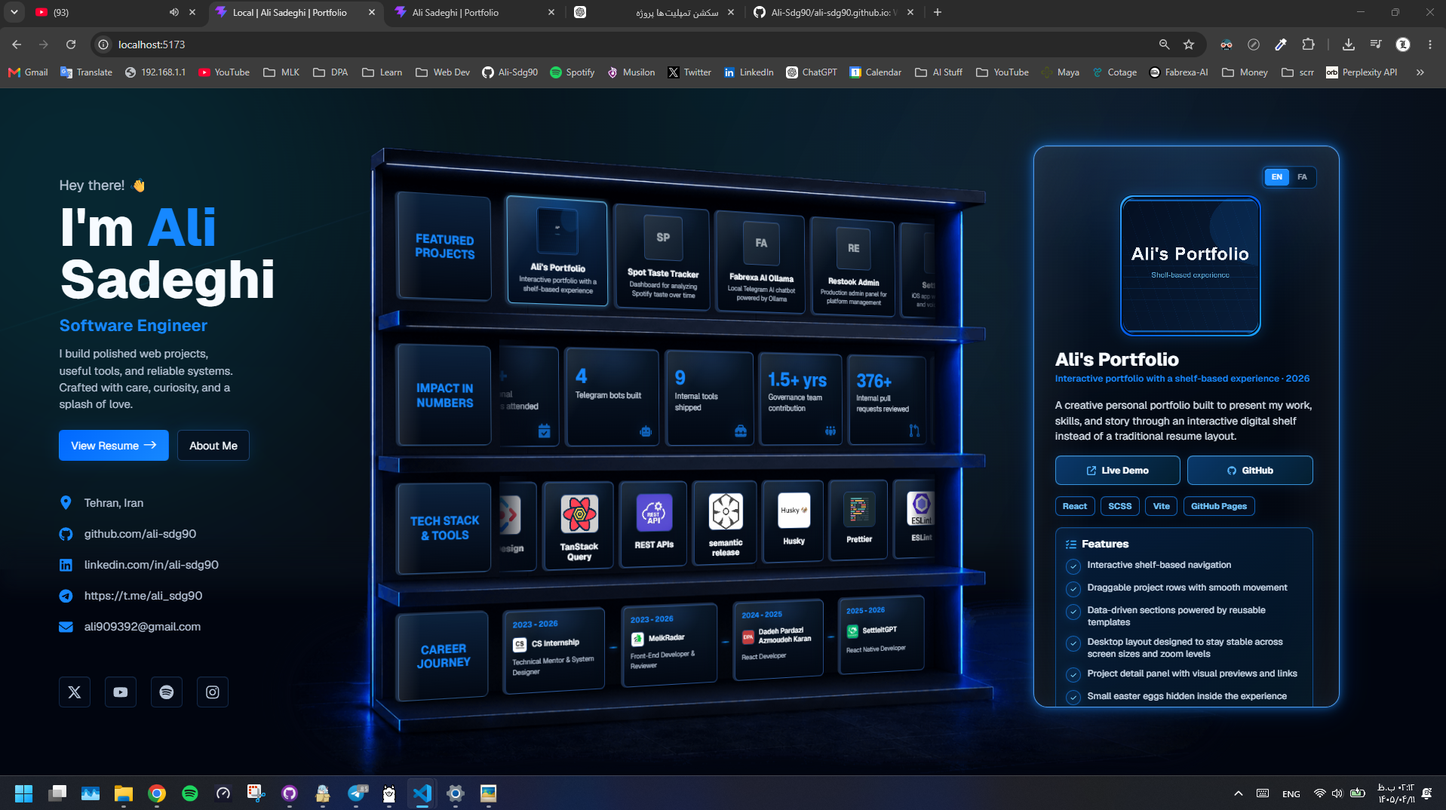
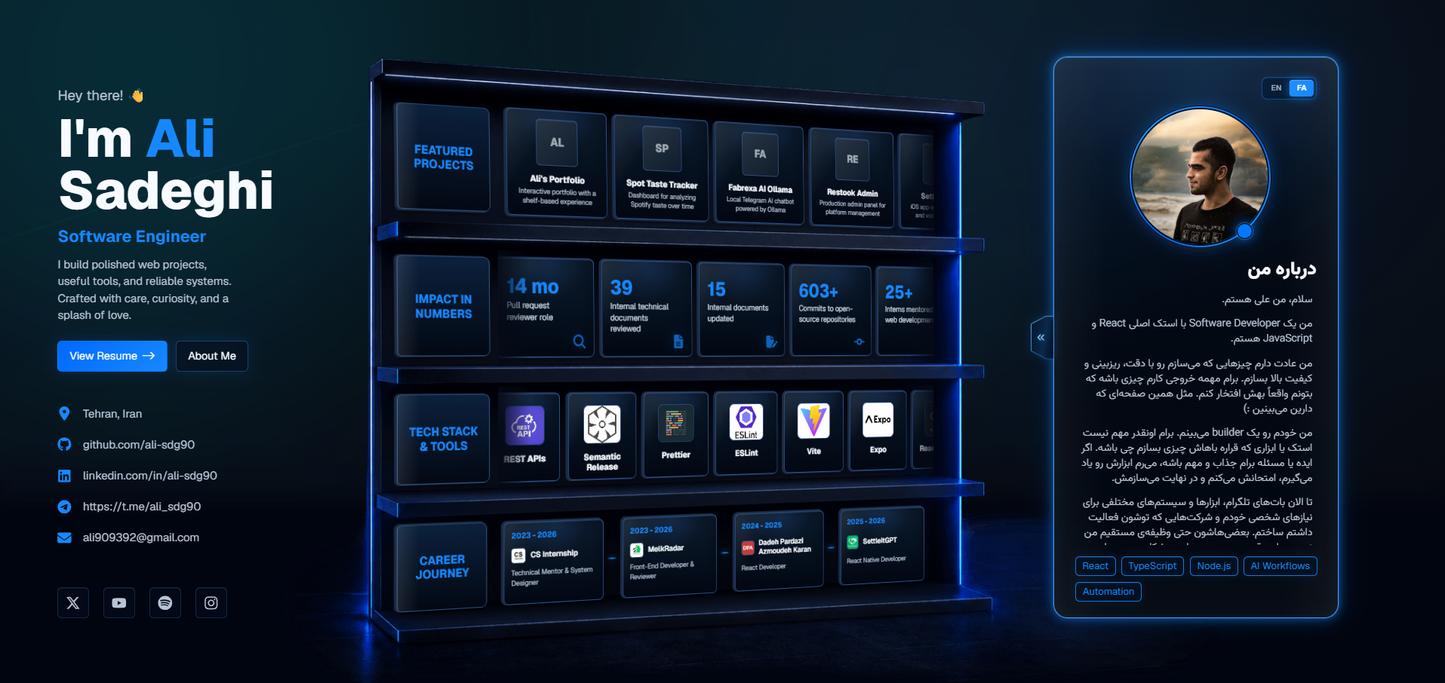
fix: add 6 more history card text, now we are at 16th card, rename and re-order history images

diff --git a/src/data/howItWasBuilt/howItWasBuiltData.js b/src/data/howItWasBuilt/howItWasBuiltData.js
@@ -24,6 +24,8 @@ import historyImage12Large from "../../assets/images/history-class/large-images/
 import historyImage12Small from "../../assets/images/history-class/small-images/img12.jpg";
 import historyImage13Large from "../../assets/images/history-class/large-images/img13.png";
 import historyImage13Small from "../../assets/images/history-class/small-images/img13.jpg";
+import historyImage14Large from "../../assets/images/history-class/large-images/img14.png";
+import historyImage14Small from "../../assets/images/history-class/small-images/img14.jpg";
 import historyImage15Large from "../../assets/images/history-class/large-images/img15.png";
 import historyImage15Small from "../../assets/images/history-class/small-images/img15.jpg";
 import historyImage16Large from "../../assets/images/history-class/large-images/img16.png";
@@ -34,10 +36,8 @@ import historyImage18Large from "../../assets/images/history-class/large-images/
 import historyImage18Small from "../../assets/images/history-class/small-images/img18.jpg";
 import historyImage19Large from "../../assets/images/history-class/large-images/img19.png";
 import historyImage19Small from "../../assets/images/history-class/small-images/img19.jpg";
-import historyImage201Large from "../../assets/images/history-class/large-images/img20.1.png";
-import historyImage201Small from "../../assets/images/history-class/small-images/img20.1.jpg";
-import historyImage202Large from "../../assets/images/history-class/large-images/img20.2.png";
-import historyImage202Small from "../../assets/images/history-class/small-images/img20.2.jpg";
+import historyImage20Large from "../../assets/images/history-class/large-images/img20.png";
+import historyImage20Small from "../../assets/images/history-class/small-images/img20.jpg";
 import historyImage21Large from "../../assets/images/history-class/large-images/img21.png";
 import historyImage21Small from "../../assets/images/history-class/small-images/img21.jpg";
 import historyImage22Large from "../../assets/images/history-class/large-images/img22.png";
@@ -102,7 +102,7 @@ I drew the first version of the idea very simply in Paint, and this became the f
 
 In the end, we got to this image. It felt really special, creative, and exciting to me.
 
-A three-dimensional shelf with a nice perspective in the middle of the page, simple text and contact information on the right, and me in stop motion on the left.
+A three-dimensional shelf with a nice perspective in the middle of the page, simple text and contact information on the left, and me in stop motion on the right.
 
 It had a small cyberpunk neon-light feeling. Not too loud, not too invisible.
 
@@ -116,7 +116,7 @@ So now that I had the design and the vision, I could start the project.`,
 
 در نهایت به این عکس رسیدیم. چیزی بود که به نظرم خیلی خاص و خلاقانه و جذاب بود.
 
-شلف سهبعدی با پرسپکتیو خوشگل وسط صفحه، نوشته معمولی و اطلاعات تماس سمت راست و خودم بهصورت استاپموشن سمت چپ.
+شلف سهبعدی با پرسپکتیو خوشگل وسط صفحه، نوشته معمولی و اطلاعات تماس سمت چپ و خودم بهصورت استاپموشن سمت راست.
 
 یه حالت سایبرپانکی نئونلایتی ریز داشت. نه خیلی تو چشم، نه خیلی نامرئی.
 
@@ -198,7 +198,7 @@ Now it was time to arrange them.`,
             id: "history-05",
             translations: {
                 en: {
-                    title: "The First Fight With Perspective",
+                    title: "The Fight With Perspective",
                     description: `Placing the cards according to the perspective of the shelf image was a really complicated process...
 
 It was all about playing with the perspective origin, the perspective value, and the X, Y, and Z rotation angles of the cards...
@@ -212,7 +212,7 @@ At this stage, I only used the Things I’ve Built row as my working reference a
 So later, I could go back and find the correct values for each shelf.`,
                 },
                 fa: {
-                    title: "اولین نبرد با پرسپکتیو",
+                    title: "نبرد با پرسپکتیو",
                     description: `قرار دادن کارتها طبق پرسپکتیو عکس شلف، پروسه خیلی پیچیدهای بود...
 
 همش بازی با اوریجین پرسپکتیو، مقدار پرسپکتیو، زاویههای X و Y و Z چرخش کارتها...
@@ -237,7 +237,7 @@ So later, I could go back and find the correct values for each shelf.`,
             id: "history-06",
             translations: {
                 en: {
-                    title: "Taming the Angles and Motion",
+                    title: "Victory Over Perspective",
                     description: `With a lot of precision, I managed to get the card angles right!
 
 I kept telling myself that if I could not get the angles right, it would be the first thing people would notice unconsciously at first glance, and it could make all the work I had done, and all the work ahead of me, feel worthless. If it looked off, the user would feel that something here is wrong. It does not feel natural.
@@ -249,7 +249,7 @@ Then I added the infinite card behavior, the acceleration and natural dragging b
 The movement speed of the cards and the amount of friction when they were thrown felt natural and fun to me.`,
                 },
                 fa: {
-                    title: "رام کردن زاویهها و حرکت",
+                    title: "پیروزی بر پرسپکتیو",
                     description: `با ظرافت خیلی زیاد تونستم زاویهی کارتها رو درست دربیارم!
 
 با خودم میگفتم اگه نتونم زاویهها رو درست دربیارم، اولین چیزی هست که بهصورت ناخودآگاه توی دید اول به چشم میاد و میتونه کل زحمات الان و آیندهم رو بیارزش کنه. اگه مشکلدار باشه، کاربر میگه اینجا یه چیزی اشتباهه. طبیعی نیست.
@@ -365,14 +365,28 @@ Oh, and yeah, I also filled the left side of the page.`,
             id: "history-10",
             translations: {
                 en: {
-                    title: "Placeholder",
-                    description:
-                        "Lorem ipsum dolor sit amet, consectetur adipiscing elit.",
+                    title: "Changing Direction",
+                    description: `For testing, I took a photo of myself with the outfit and lighting angle I had in the design, and placed it inside the project.
+
+It was really disappointing for me to see that having my own photo on the page did not work well.
+
+The specific lighting angle, the super high quality, and the natural feeling of the photo all needed to be perfect. If even a small part was off, it would not look natural, and it would subconsciously push away the comfort of looking at the page. I realized I was in a challenge where, if I continued this path with this design, the chance of the project failing would become really high.
+
+There was another problem too. Having my photo there grabbed too much attention. The shelf was supposed to be the center of attention on the page. Having two parts of the project constantly fighting for attention is not really good for the user experience.
+
+So this was a failed but cool test, and saw that I needed to change the design of the project.`,
                 },
                 fa: {
-                    title: "متن جایگزین",
-                    description:
-                        "لورم ایپسوم متن ساختگی با تولید سادگی نامفهوم از صنعت چاپ است.",
+                    title: "تغییر مسیر",
+                    description: `برای تست، یه عکس از خودم با لباس و زاویهی نوریای که تو دیزاین داشتم گرفتم و تو پروژه گذاشتم.
+
+برام خیلی ناراحتکننده بود که دیدم بودن عکس خودم تو صفحه خوب جواب نمیده.
+
+زاویهی نوری خاص عکس، کیفیت فوقبالا و طبیعی بودن عکس باید همشون پرفکت باشن. اگه یکم مشکلدار باشه، طبیعی به چشم نمیاد و ناخودآگاه راحت بودن با دیدن صفحه رو پس میزنه. دیدم تو چالشی افتادم که اگه بخوام این مسیر رو با این دیزاین ادامه بدم، احتمال شکست پروژه خیلی بالا میره.
+
+بعد یه مشکل دیگه هم بود. بودن عکس من خیلی توجه جلب میکرد. قرار بود شلف مرکز توجه صفحه باشه. دوتیکهی پروژه که مدام بخوان توجه رو جلب کنن، خیلی برای تجربهی کاربری خوب نیست.
+
+پس این یه تست ناموفق و باحال بود و دیدم نیاز بود تو دیزاین پروژه دست ببرم.`,
                 },
             },
             image: {
@@ -386,14 +400,20 @@ Oh, and yeah, I also filled the left side of the page.`,
             id: "history-11",
             translations: {
                 en: {
-                    title: "Placeholder",
-                    description:
-                        "Lorem ipsum dolor sit amet, consectetur adipiscing elit.",
+                    title: "The Second Design",
+                    description: `Instead of the stop-motion Ali on the right side of the page, I added an About Me section with my photo at the top, where the user could scroll and read the full text.
+
+To me, it felt like a clean and simple idea that did not grab too much attention and allowed the shelf to shine on the page. It was not so simple that it felt out of place either. In my eyes, it sat well on the page.
+
+I created the new design image with ChatGPT and started building it.`,
                 },
                 fa: {
-                    title: "متن جایگزین",
-                    description:
-                        "لورم ایپسوم متن ساختگی با تولید سادگی نامفهوم از صنعت چاپ است.",
+                    title: "دیزاین دوم پروژه",
+                    description: `به جای علی استاپموشنی سمت راست صفحه، یه سکشن About Me قرار دادم که بالاش عکسم باشه و توش کاربر بتونه اسکرول کنه و کل متن رو بخونه.
+
+به چشمم ایدهی تمیز و سادهای میومد که خیلی هم جلب توجه نمیکرد و اجازه میداد شلف بتونه تو صفحه بدرخشه. اونقدر هم ساده نبود که جاش تو صفحه نباشه. به دیدم خوب تو صفحه نشسته بود.
+
+عکس جدید دیزاین رو با چتجیپیتی ساختم و شروع به ساختنش کردم.`,
                 },
             },
             image: {
@@ -407,14 +427,24 @@ Oh, and yeah, I also filled the left side of the page.`,
             id: "history-12",
             translations: {
                 en: {
-                    title: "Placeholder",
-                    description:
-                        "Lorem ipsum dolor sit amet, consectetur adipiscing elit.",
+                    title: "Strange New Section",
+                    description: `I built the new section. I named it About Section.
+
+The fact that the text inside it was tilted looked a bit strange to me. It felt strange because this section was meant for reading, and this perspective felt a little tiring and uncomfortable for the eyes.
+
+I gave myself some time to spend more time with it, maybe I was just being sensitive about it in the moment.
+
+I improved the Career cards based on the design. They were no longer just an image with text under it. They became closer to the new design, better, more professional, and prettier.`,
                 },
                 fa: {
-                    title: "متن جایگزین",
-                    description:
-                        "لورم ایپسوم متن ساختگی با تولید سادگی نامفهوم از صنعت چاپ است.",
+                    title: "سکشن جدید عجیب",
+                    description: `سکشن جدید رو ساختم. اسمش رو About Section گذاشتم.
+
+یکم اینکه متن توش کج بود، به چشمم عجیب میومد. این عجیبی به خاطر این بود که این سکشن برای خوندن بود و این پرسپکتیو یکم خستهکننده و اذیتکننده برای چشم بود.
+
+یکم به خودم وقت دادم بیشتر باهاش وقت بگذرونم، شاید فقط تو لحظه نسبت بهش حساس بودم.
+
+کارتهای Career رو طبق دیزاین بهتر کردم. دیگه فقط یه عکس و متن زیرش نبود. شبیه دیزاین جدید، بهتر و حرفهایتر و خوشگلتر شد.`,
                 },
             },
             image: {
@@ -428,14 +458,28 @@ Oh, and yeah, I also filled the left side of the page.`,
             id: "history-13",
             translations: {
                 en: {
-                    title: "Placeholder",
-                    description:
-                        "Lorem ipsum dolor sit amet, consectetur adipiscing elit.",
+                    title: "Choosing the Best Path",
+                    description: `I thought a lot about how to show the user more details about the shelf cards.
+
+One of the early ideas of the project, which felt really cool and scary to me, was that when the user clicked on a shelf card, a modal would open with an animation and show the card information inside it. The modal could be resized on the page, so the user could move modals around or have multiple ones open at the same time with different sizes.
+
+It was a very big idea. I thought maybe it would become way bigger than my portfolio, or make interacting with the page too complicated.
+
+Then a simpler idea came to my mind. I could use this new About Me section, and when the user clicked on a card, it would show that card’s information inside this section. When no card was selected, it would show About Me.
+
+It felt like a creative and good idea to me. With ChatGPT, I made the rough design and layout of the parts inside it, and I had a good plan to continue.`,
                 },
                 fa: {
-                    title: "متن جایگزین",
-                    description:
-                        "لورم ایپسوم متن ساختگی با تولید سادگی نامفهوم از صنعت چاپ است.",
+                    title: "انتخاب بهترین راه",
+                    description: `سر اینکه چطور توضیحات بیشتر کارتهای شلفها رو به کاربر نشون بدم، خیلی فکر کردم.
+
+یکی از ایدههای اولیه پروژه که به نظرم خیلی باحال و ترسناک میومد این بود که وقتی روی کارتهای شلف کلیک میشه، یه مودال با انیمیشن باز بشه و توش اطلاعات کارت نشون داده بشه. این مودال تو صفحه قابلیت تغییر اندازه داشته باشه، جوری که کاربر بتونه مودالها رو تو صفحه تکون بده یا چند تا در لحظه باز داشته باشه، با سایزهای مختلف.
+
+ایده خیلی بزرگی بود. فکر کردم شاید خیلی فراتر از پورتفولیوم میشه یا زیادی کار با صفحه رو پیچیده میکنه.
+
+بعد یه ایده سادهتر به ذهنم رسید. میتونم از این سکشن About Me جدید استفاده کنم و وقتی کاربر روی کارتی کلیک کرد، اون اطلاعات کارت رو تو این سکشن نشون بده. وقتی هم کارتی سلکت نشده، About Me رو نشون بده.
+
+به نظرم ایده خلاقانه و خوبی میومد. با چتجیپیتی دیزاین تقریبی و قرارگیری قسمتهای داخلش رو ساختم و پلن خوبی برای ادامه دادن داشتم.`,
                 },
             },
             image: {
@@ -446,17 +490,58 @@ Oh, and yeah, I also filled the left side of the page.`,
             accent: "#48d7c7",
         },
         {
+            id: "history-14",
+            translations: {
+                en: {
+                    title: "Implementing the Dynamic Modal",
+                    description: `I implemented the dynamic model of the About Section.
+
+It looked pretty and cool to me. The only thing was that the content inside it felt a little too small and tiny.
+
+I wanted each card to also have a description and story section, where I could write its story in Persian, and the user could easily change the card language and read the text in Ali-style Persian. So I added a language switch to the top of the card.
+
+I also made the whole section straight and removed the tilted perspective from it.`,
+                },
+                fa: {
+                    title: "پیادهسازی مدال داینامیک",
+                    description: `مدل داینامیک About Section رو پیادهسازی کردم.
+
+به چشمم خوشگل و باحال میومد. فقط محتواهای داخلش یه کم زیادی کوچیک و ریز به چشمم میومد.
+
+دوست داشتم برای هر کارت هم یه سکشن توضیح و داستان داشته باشم که بتونم توش به فارسی داستانش رو بنویسم و کاربر بتونه راحت زبون کارت رو عوض کنه و متن رو به مدل علیای فارسی بخونه. پس به بالای کارت، سوییچ تغییر زبان هم اضافه کردم.
+
+کلا سکشن هم صاف گذاشتم و اون حالت پرسپکتیو کج رو ازش گرفتم.`,
+                },
+            },
+            image: {
+                src: historyImage14Small,
+                lightboxSrc: historyImage14Large,
+                alt: "Portfolio history image 14",
+            },
+            accent: "#ff9d66",
+        },
+        {
             id: "history-15",
             translations: {
                 en: {
-                    title: "Placeholder",
-                    description:
-                        "Lorem ipsum dolor sit amet, consectetur adipiscing elit.",
+                    title: "The Accordion Modal Begins",
+                    description: `I finally wrote the About Me text. I really tried to make it feel exactly, exactly like myself, but it was a little longer than I wanted. For now, I kept it like this so I could come back to it later.
+
+I finalized the width of the About Me section and started adding the expanded state for the About Section.
+
+The first implementation did not have a very pretty icon, but it was still a starting point.
+
+Then I thought I could use different widths for About Me and About Card, so when switching between these two modes, there would be a width difference between them. It is a simple effect, but it looks nice to the eye.`,
                 },
                 fa: {
-                    title: "متن جایگزین",
-                    description:
-                        "لورم ایپسوم متن ساختگی با تولید سادگی نامفهوم از صنعت چاپ است.",
+                    title: "شروع مودال آکاردئونی",
+                    description: `متن About Me رو بالاخره نوشتم. خیلی سعی کردم متن دقیقا خود خود خودم باشه، ولی یکم طولانیتر از چیزی بود که دوست داشتم. فعلا همین رو نگه داشتم تا بعدا دوباره بهش سر بزنم.
+
+عرض سکشن About Me رو نهایی کردم و شروع کردم به اضافه کردن حالت expanded سکشن About Section.
+
+پیادهسازی اولیه خیلی آیکون خوشگلی نداشت، ولی باز شروع اولیه بود.
+
+به ذهنم رسید میتونم عرض مختلف برای About Me و About Card بذارم که وقتی بین این دو مود سوییچ میشه، تفاوت عرضی بین دو مود باشه. افکت سادهایه، ولی به چشم خوشگل میاد.`,
                 },
             },
             image: {
@@ -464,7 +549,7 @@ Oh, and yeah, I also filled the left side of the page.`,
                 lightboxSrc: historyImage15Large,
                 alt: "Portfolio history image 15",
             },
-            accent: "#ff9d66",
+            accent: "#f47caa",
         },
         {
             id: "history-16",
@@ -485,7 +570,7 @@ Oh, and yeah, I also filled the left side of the page.`,
                 lightboxSrc: historyImage16Large,
                 alt: "Portfolio history image 16",
             },
-            accent: "#f47caa",
+            accent: "#63c5ff",
         },
         {
             id: "history-17",
@@ -506,7 +591,7 @@ Oh, and yeah, I also filled the left side of the page.`,
                 lightboxSrc: historyImage17Large,
                 alt: "Portfolio history image 17",
             },
-            accent: "#63c5ff",
+            accent: "#8fdb78",
         },
         {
             id: "history-18",
@@ -527,7 +612,7 @@ Oh, and yeah, I also filled the left side of the page.`,
                 lightboxSrc: historyImage18Large,
                 alt: "Portfolio history image 18",
             },
-            accent: "#8fdb78",
+            accent: "#ffd166",
         },
         {
             id: "history-19",
@@ -548,31 +633,10 @@ Oh, and yeah, I also filled the left side of the page.`,
                 lightboxSrc: historyImage19Large,
                 alt: "Portfolio history image 19",
             },
-            accent: "#ffd166",
-        },
-        {
-            id: "history-201",
-            translations: {
-                en: {
-                    title: "Placeholder",
-                    description:
-                        "Lorem ipsum dolor sit amet, consectetur adipiscing elit.",
-                },
-                fa: {
-                    title: "متن جایگزین",
-                    description:
-                        "لورم ایپسوم متن ساختگی با تولید سادگی نامفهوم از صنعت چاپ است.",
-                },
-            },
-            image: {
-                src: historyImage201Small,
-                lightboxSrc: historyImage201Large,
-                alt: "Portfolio history image 20",
-            },
             accent: "#ae96ff",
         },
         {
-            id: "history-202",
+            id: "history-20",
             translations: {
                 en: {
                     title: "Placeholder",
@@ -586,8 +650,8 @@ Oh, and yeah, I also filled the left side of the page.`,
                 },
             },
             image: {
-                src: historyImage202Small,
-                lightboxSrc: historyImage202Large,
+                src: historyImage20Small,
+                lightboxSrc: historyImage20Large,
                 alt: "Portfolio history image 20",
             },
             accent: "#56e0d2",
